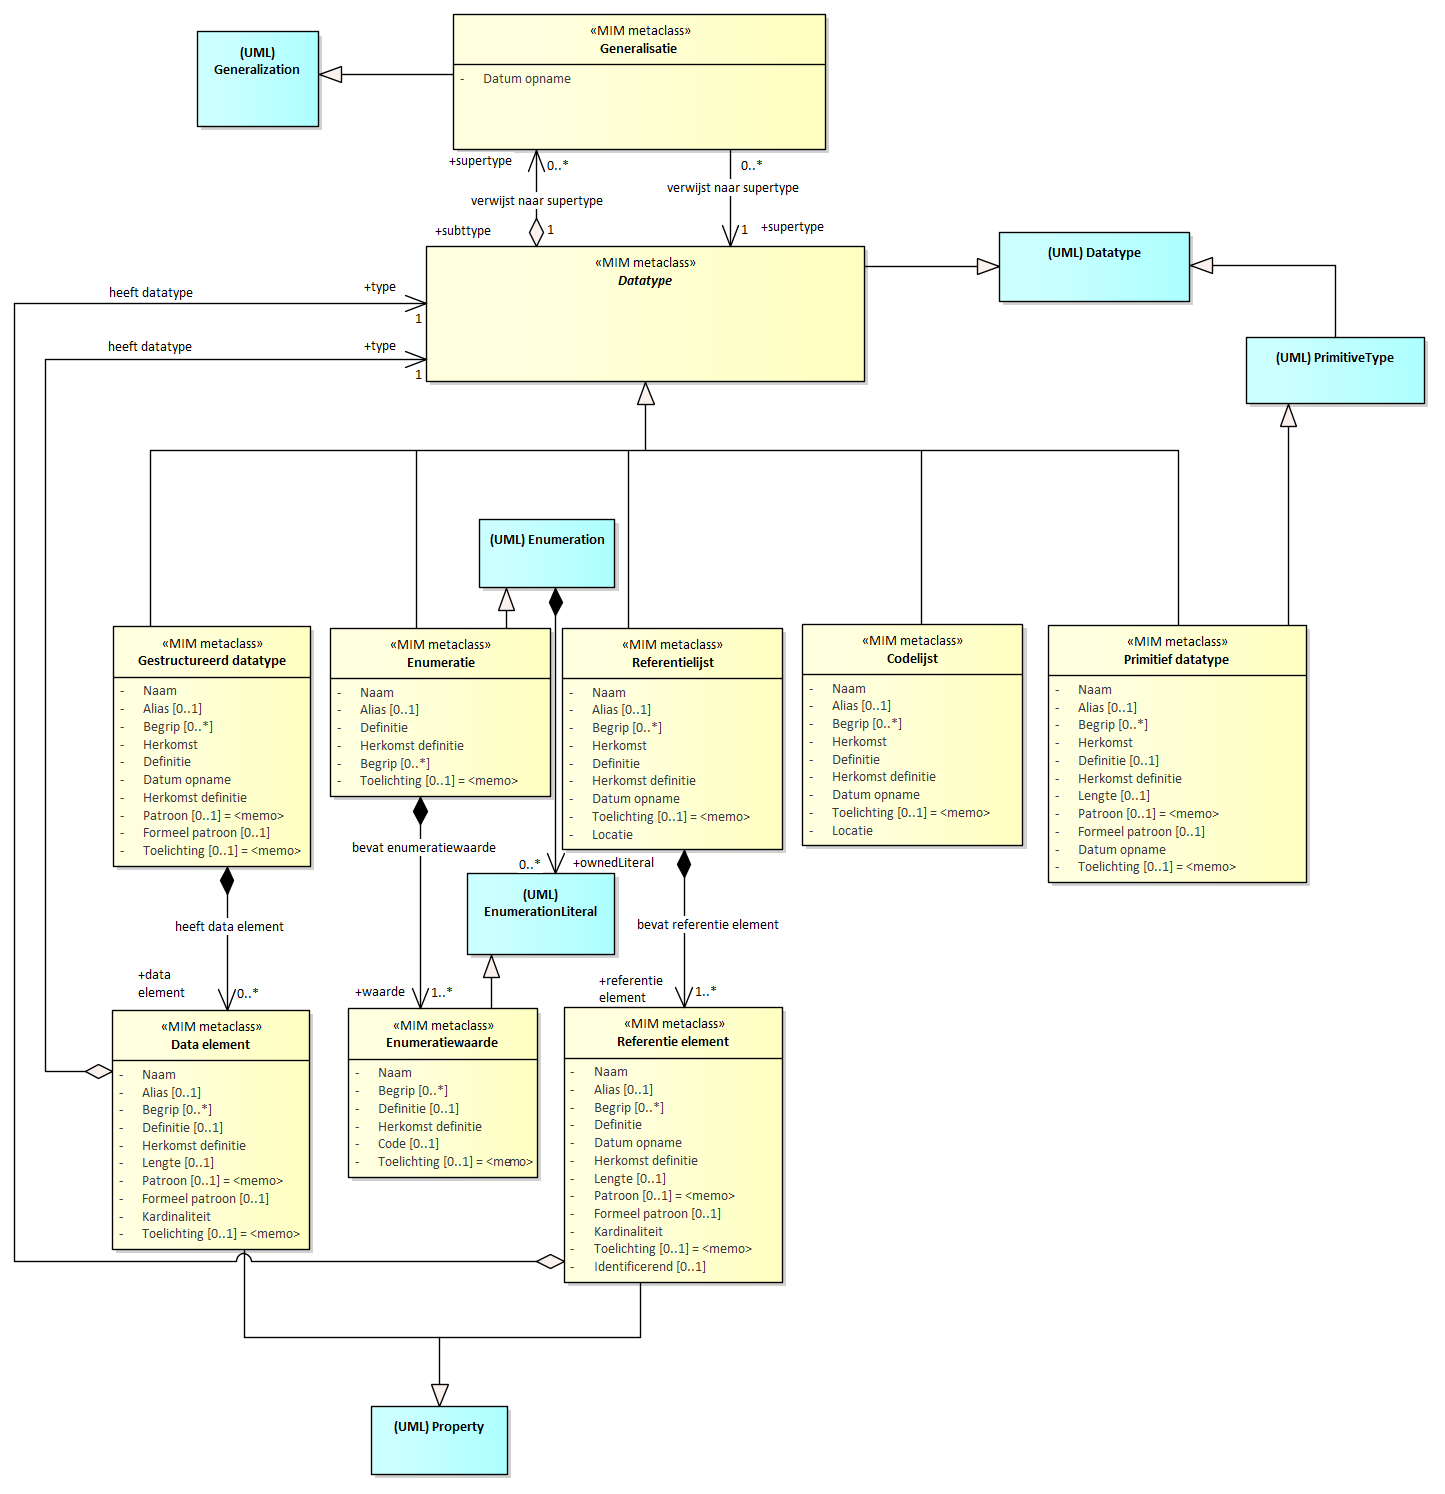
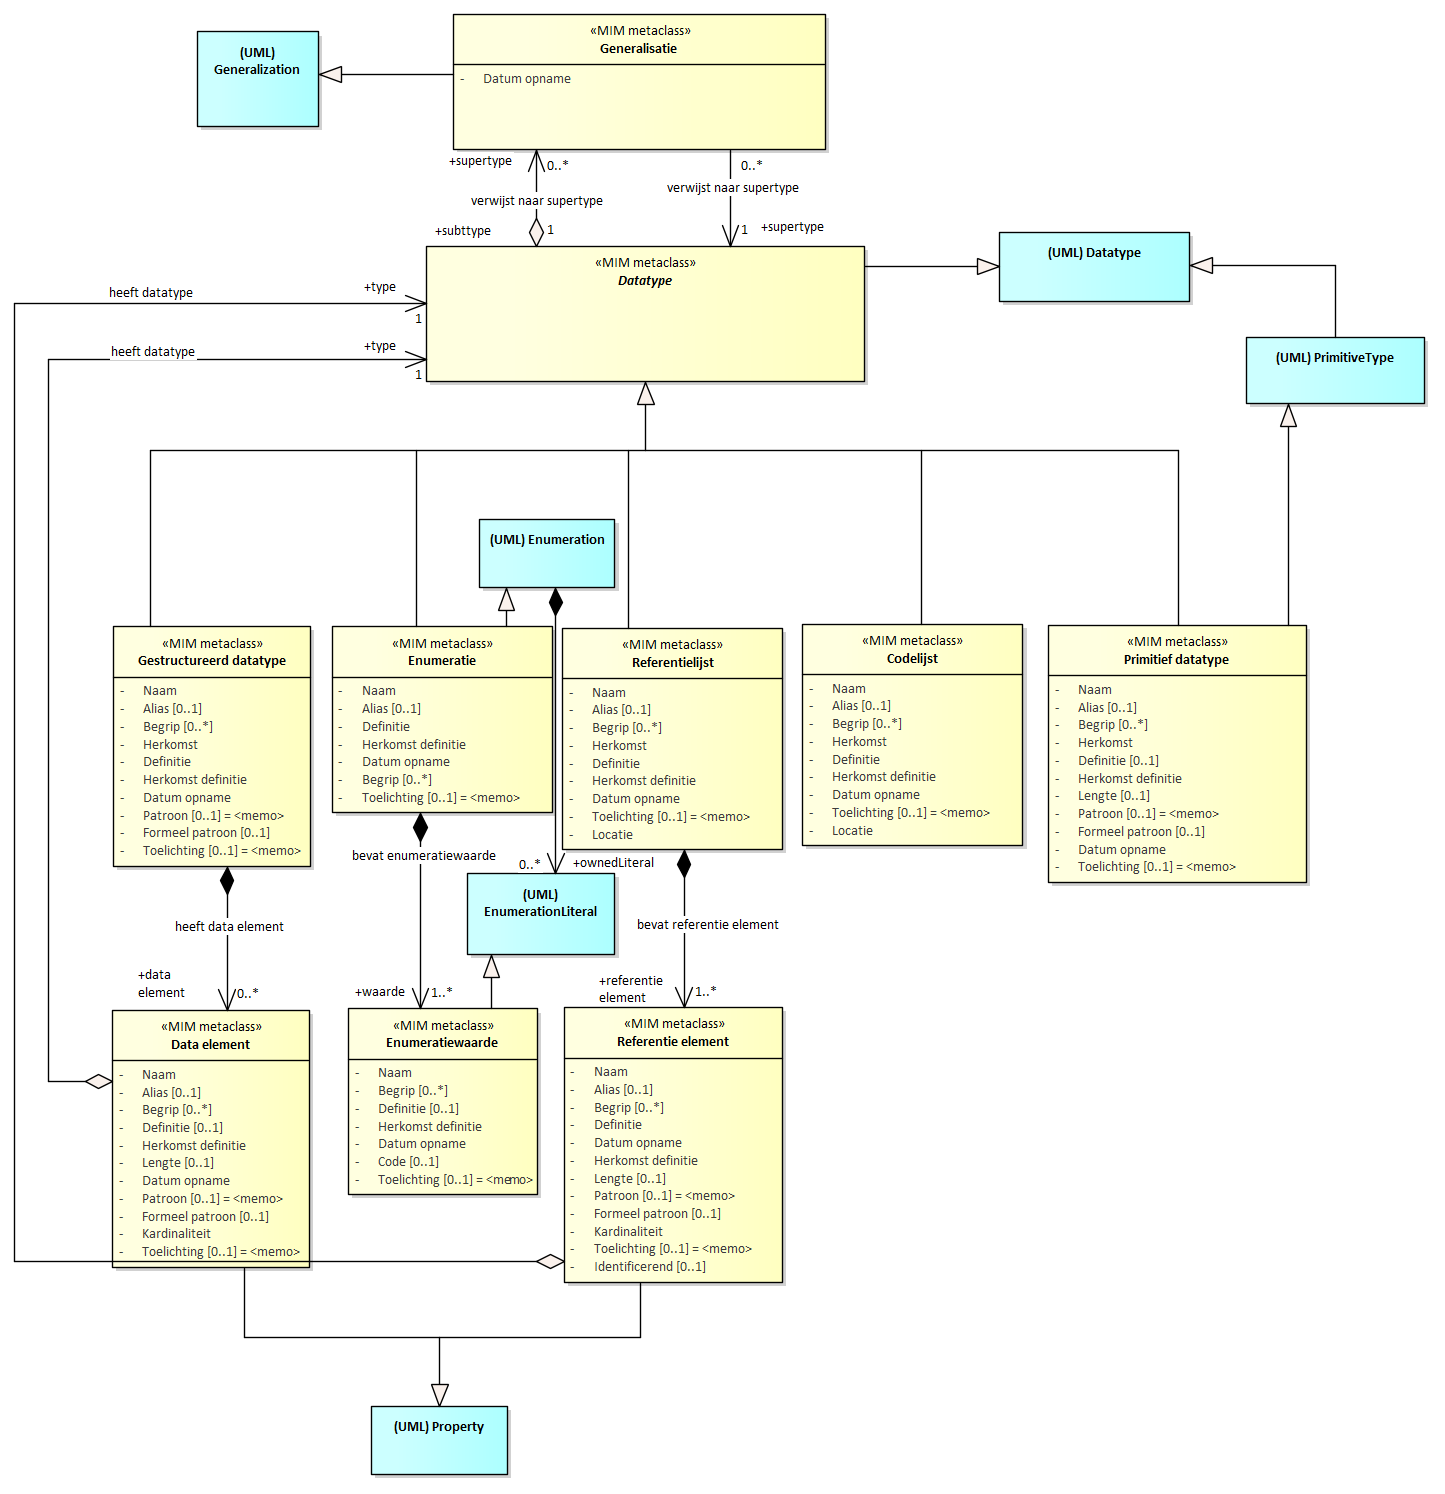
datum opname toegevoegd bij een aantal metaklassen

diff --git a/MetamodelUML.md b/MetamodelUML.md
@@ -406,6 +406,7 @@ De generalisaties worden naar het volgende aspect gespecificeerd:
 | ------------- | ------------------ | ------------------------------------------------------------ | --------------------------------------------------- | ---- | --------- | ---------- |
 | **Subtype**   | 1                  | Het objecttype dat een specialisatie is van een (ander) objecttype. | */source: related Element bij Relationship Element* |      | *Source*  |            |
 | **Supertype** | 1                  | Het objecttype dat de generalisatie is van een (ander) objecttype. | */target: related Element bij Relationship Element* |      | *Target*  |            |
+| **Datum opname**              | 1                  | Algemeen metagegeven.                                        |                                          |      | *Tagged value*                                               |            |
 
 **Specificatie voor «Generalisatie» tussen datatypes**
 
@@ -442,6 +443,7 @@ Externe koppelingen worden naar de volgende aspecten gespecificeerd.
 | **Begrip**           | 0..\*              | Algemeen metagegeven.                      |                                                     |      | *Tagged value*                                               |            |
 | **Alias**            | 0..1               | Algemeen metagegeven.                      | *UML-Property*                                      |      | *Alias*                                                      |            |
 | **Datum opname**     | 1                  | Algemeen metagegeven.                      |                                                     |      | *Tagged value*                                               |            |
+| **Kardinaliteit√**                | 1                  | Algemeen metagegeven. | *lowerValue en upperValue van de metaclass MultiplicityElement* |      | *Multiplicity van de target role*                            |            |
 | **Unidirectioneel**  | 1                  | Algemeen metagegeven.                      |                                                     |      | *Direction van de betreffende assiciation (van source naar target)* |            |
 | **Relatie eigenaar** | 1                  | Algemeen metagegeven.                      | */source: related Element bij Relationship Element* |      | *Source*                                                     |            |
 | **Relatie doel**     | 1                  | Algemeen metagegeven.                      | */target: related Element bij Relationship Element* |      | *Target*                                                     |            |
@@ -485,7 +487,7 @@ De referentie-elementen worden naar de volgende aspecten gespecificeerd:
 | **Identificerend**                          | 0..1               | Algemeen metagegeven. | *isID van de metaclass Property*                             |      | *isID bij de betreffende class*      |            |
 | **Toelichting**                             | 0..1               | Algemeen metagegeven. |                                                              |      | *Tagged value*                       |            |
 
-**Specificatie voor «codeList»**
+**Specificatie voor «Codelijst»**
 
 Voor codelijst worden de volgende aspecten gespecificeerd:
 
@@ -545,6 +547,7 @@ De data-elementen worden naar de volgende aspecten gespecificeerd:
 | **Naam**                                    | 1                  | Algemeen metagegeven. | *name van de metaclass Named element*                        |      | *Name*         |            |
 | **Begrip**                                  | 0..\*              | Algemeen metagegeven. |                                                              |      | *Tagged value* |            |
 | **Definitie**                               | 0..1               | Algemeen metagegeven. | *Body van de metaclass Comment*                              |      | *Notes*        |            |
+| **Datum opname**              | 1                  | Algemeen metagegeven.                                        |                                          |      | *Tagged value*                                               |            |
 | **Domein** *(aspecten van een waarde/data)* |                    |                       |                                                              |      |                |            |
 | **- Type**                                  | 1                  | Algemeen metagegeven. |                                                              |      | *Type*         |            |
 | **- Lengte**                                | 0..1               | Algemeen metagegeven. |                                                              |      | *Tagged value* |            |
@@ -642,6 +645,7 @@ volgende aspecten:
 | **Naam**      | 1                  | Algemeen metagegeven.                                        | *name van de metaclass Named element*   |      | *Name*    |            |
 | **Definitie** | 0..1               | Algemeen metagegeven. *De beschrijving van de betekenis van de enumeratiewaarde zoals gespecificeerd in de catalogus van de desbetreffende registratie.* | *Body van de metaclass Comment*         |      | *Notes*   |            |
 | **Code**      | 0..1               | De in een registratie of informatiemodel aan de enumeratiewaarde toegekend unieke code (niet te verwarren met alias, zoals bedoeld in 2.6.1). | *Alias van de metaclass Element Import* |      | *Alias*   |            |
+| **Datum opname**              | 1                  | Algemeen metagegeven.                                        |                                          |      | *Tagged value*                                               |            |
 
 #### Specificatie voor een Constraint
 
@@ -653,6 +657,7 @@ aspecten gespecificeerd:
 | **Naam√**                | 1                  | Algemeen metagegeven.                                        | *name van de metaclass Named element* |      | *Name*                     |            |
 | **Specificatie tekst**   | 0..1               | De specificatie van de constraint in normale tekst.          |                                       |      | *Notes (type = invariant)* |            |
 | **Specificatie formeel** | 0..1               | De beschrijving van de constraint in een formele specificatietaal, in OCL |                                       |      | *Notes (type =OCL)*        |            |
+| **Datum opname**              | 1                  | Algemeen metagegeven.                                        |                                          |      | *Tagged value*                                               |            |
 
 ## UML Tooling
 

diff --git a/MetamodelAlgemeen.md b/MetamodelAlgemeen.md
@@ -375,7 +375,7 @@ Diagram: [Kern](#kern)
 >   modelelement eigenschappen van het meer generieke modelelement overerft. Dit
 >   verband is alleen gedefinieerd voor objecttypen en datatypen.
 
-*Toelichting:* Deze toelichting is tweeledig.
+*Toelichting:*
 
 Generalisatie tussen objecttypes:
 
@@ -400,6 +400,12 @@ een NietNegatiefGetal.
 Deze generalisatie is van toepassing op de volgende datatypes: «Primitief
 datatype», «Gestructureerd datatype», «Referentielijst», «Codelijst»,
 «Enumeratie».
+
+Meervoudige overerving of multiple-inheritance:
+
+Een subtype kan meerdere objectypen als generalisatie hebben. In het diagram [Kern](#kern) is dit aangegeven door een Objecttype als subtype naar o..* Generalisaties te laten verwijzen. Dat impliceert dat een subtype 0..* supertypen kan hebben.
+
+
 
 #### Relatiesoort
 
@@ -873,7 +879,7 @@ Dit kan bijvoorbeeld uitgebreid worden met: "technisch" wanneer er behoefte is o
 *Toelichting* 
 Dit kan zijn "Relatiesoort leidend" of "Relatierol leidend". Dit
 betreft de keuze die je maakt voor het in paragraaf [Alternatieven](#alternatieven) gekozen
-alternatief. Er moet een keuze gemaakt worden.
+alternatief. Er moet een keuze gemaakt worden. Deze keuze geldt primair voor de modelelementen relatiesoort en relatiedoel zoals bedoeld in 3.2.2. maar geldt in het verlengde hiervan voor het modelelement externe koppeling.
 
 *Toepassing*: informatiemodel (verplicht)
 
